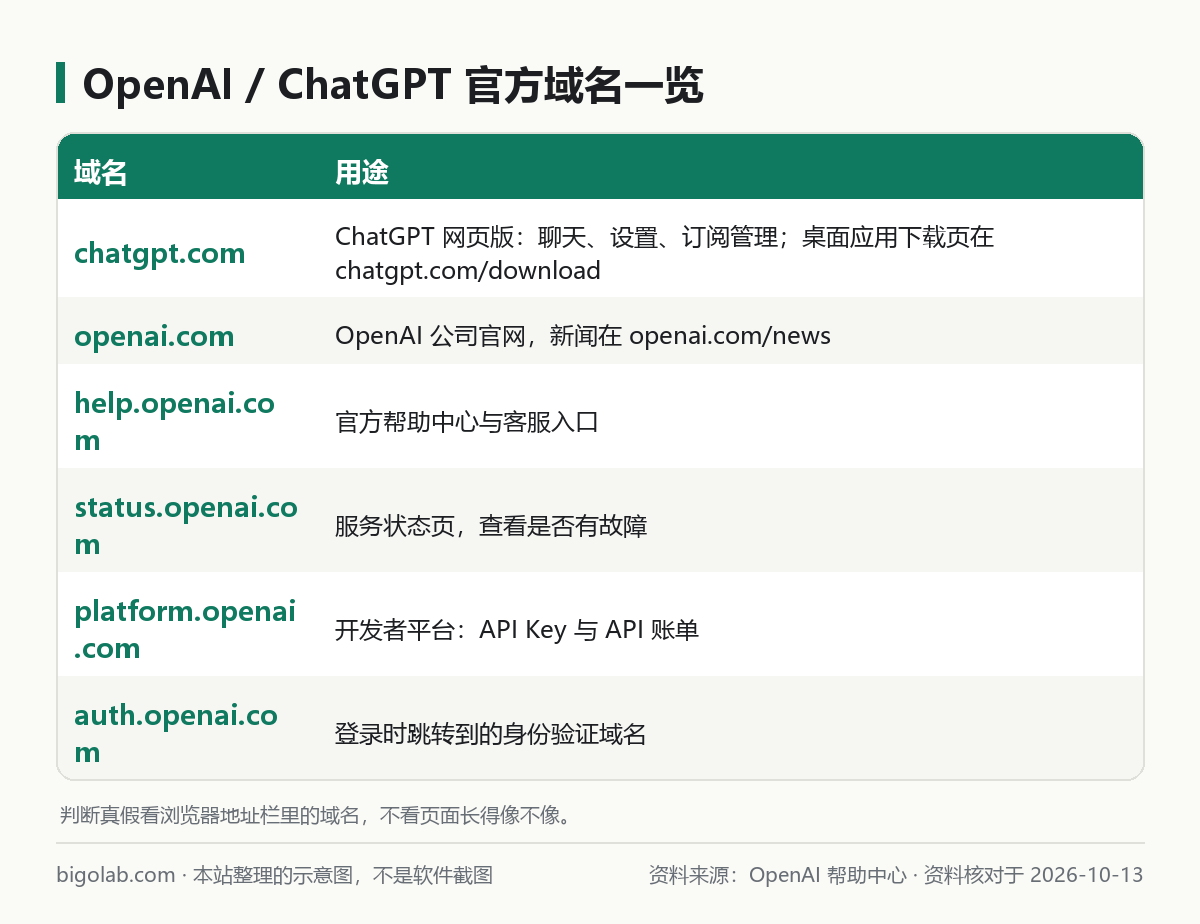
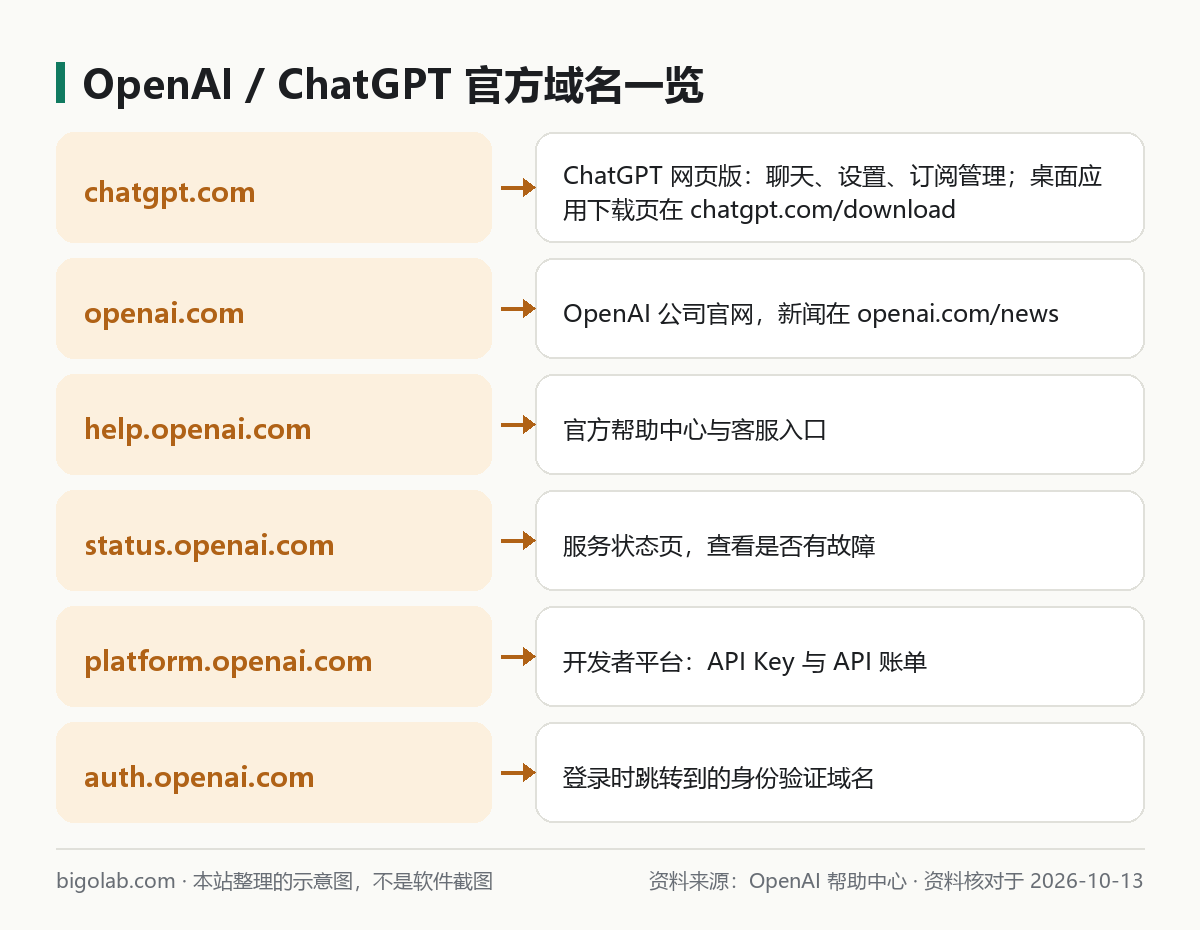
教程（c2）：850–861 收尾，缩短 5 篇摘要，补 857 三步图，859 官方域名图改版式避免换行

diff --git a/docs/内容平台/种子内容/guides/861-chatgpt-app-store-google-play-subscription.md b/docs/内容平台/种子内容/guides/861-chatgpt-app-store-google-play-subscription.md
@@ -4,7 +4,7 @@ slug: chatgpt-app-store-google-play-subscription
 products: [chatgpt]
 models: []
 accountTier: PLUS
-excerpt: 在 iPhone 的 App Store 或安卓的 Google Play 里订阅 ChatGPT，订阅归苹果或谷歌管，而且同时绑定应用商店账号和当时登录的 ChatGPT 账号。本文按 OpenAI 帮助中心讲清在 App 里怎么升级、付费后仍显示 Free 怎么恢复购买、「This subscription is associated with another OpenAI account」的含义与处理，以及想换到网页订阅时的正确顺序。
+excerpt: 在 App Store 或 Google Play 订阅 ChatGPT，订阅归苹果或谷歌管。本文按 OpenAI 帮助中心讲清在 App 里怎么升级、付费后仍显示 Free 怎么恢复购买、「associated with another OpenAI account」的含义，以及换网页订阅的顺序。
 checkedOn: 2026-10-13
 sources:
   - https://help.openai.com/en/articles/7905739-chatgpt-ios-app-upgrading-to-a-paid-subscription

diff --git a/docs/内容平台/种子内容/guides/857-chatgpt-suspicious-activity-alert.md b/docs/内容平台/种子内容/guides/857-chatgpt-suspicious-activity-alert.md
@@ -4,7 +4,7 @@ slug: chatgpt-suspicious-activity-alert
 products: [chatgpt]
 models: []
 accountTier: FREE
-excerpt: ChatGPT 弹出「Suspicious Activity Alert」可疑活动提醒、登录时突然要验证码或 App 推送确认，是系统在保护账号，不一定代表你做错了什么。本文按 OpenAI 帮助中心讲清触发原因、官方建议的三步（改密码、开两步验证、登出所有设备）、提醒不消失时的排查，以及收到不是自己发起的登录请求该怎么办。
+excerpt: ChatGPT 弹出「Suspicious Activity Alert」可疑活动提醒，或登录时突然要验证码，是系统在保护账号。本文按 OpenAI 帮助中心讲清触发原因、官方建议的三步（改密码、开两步验证、登出所有设备）、提醒不消失时的排查。
 checkedOn: 2026-10-13
 sources:
   - https://help.openai.com/en/articles/10471992-why-am-i-receiving-a-suspicious-activity-alert

diff --git a/docs/内容平台/种子内容/guides/854-chatgpt-invoice-download.md b/docs/内容平台/种子内容/guides/854-chatgpt-invoice-download.md
@@ -4,7 +4,7 @@ slug: chatgpt-invoice-download
 products: [chatgpt]
 models: []
 accountTier: PLUS
-excerpt: ChatGPT Plus、Pro 的发票（Invoice）在哪下载？在网页订阅的，到设置的账单页进入账单门户，在 Invoice History 里下载；在 App Store 或 Google Play 订阅的，发票不在 ChatGPT 里。本文按 OpenAI 帮助中心讲清各渠道的位置、每月扣款日怎么定、发票抬头和税号怎么改，以及找不到发票时的排查。
+excerpt: ChatGPT Plus、Pro 的发票在哪下载？网页订阅的，在设置的账单页进入账单门户，到 Invoice History 里下载；App Store 或 Google Play 订阅的，发票不在 ChatGPT 里。本文讲清各渠道位置、扣款日、发票抬头税号怎么改，以及找不到发票时的排查。
 checkedOn: 2026-10-13
 sources:
   - https://help.openai.com/en/articles/12356340-how-can-i-find-my-past-chatgpt-invoices

diff --git a/docs/内容平台/种子内容/guides/856-chatgpt-account-deactivated-appeal.md b/docs/内容平台/种子内容/guides/856-chatgpt-account-deactivated-appeal.md
@@ -4,7 +4,7 @@ slug: chatgpt-account-deactivated-appeal
 products: [chatgpt]
 models: []
 accountTier: FREE
-excerpt: 登录 ChatGPT 提示「You do not have an account because it has been deleted or deactivated」，说明账号被自己删除或被官方停用。本文按 OpenAI 帮助中心讲清怎么判断是哪一种、官方列出的五类停用原因、收到警告邮件意味着什么、申诉的三个入口和要写的内容，以及等 30 天有没有用。
+excerpt: 登录 ChatGPT 提示「You do not have an account because it has been deleted or deactivated」，是账号被删除或被停用。本文按 OpenAI 帮助中心讲清怎么区分、官方列的停用原因、收到警告邮件的含义、申诉入口和要写的内容。
 checkedOn: 2026-10-13
 sources:
   - https://help.openai.com/en/articles/8958977-troubleshooting-deleted-or-deactivated-account-errors

diff --git a/docs/内容平台/种子内容/guides/859-chatgpt-official-website-app.md b/docs/内容平台/种子内容/guides/859-chatgpt-official-website-app.md
@@ -4,7 +4,7 @@ slug: chatgpt-official-website-app
 products: [chatgpt]
 models: []
 accountTier: FREE
-excerpt: ChatGPT 官网网址是 chatgpt.com，开发公司 OpenAI 的官网是 openai.com。本文按 OpenAI 帮助中心列出全部官方域名各自的用途、iPhone / 安卓 / Mac / Windows 官方应用的下载入口和发布者名称、官方邮件域名，并给出一份辨别假冒网站、假冒 App 和假客服的检查清单。
+excerpt: ChatGPT 官网是 chatgpt.com，OpenAI 官网是 openai.com。本文按 OpenAI 帮助中心列出官方域名各自的用途、iPhone、安卓、Mac、Windows 官方应用的下载入口和官方邮件域名，并给出辨别假冒网站、App 和假客服的清单。
 checkedOn: 2026-10-13
 sources:
   - https://help.openai.com/en/articles/11725090-verifying-communications-from-openai
